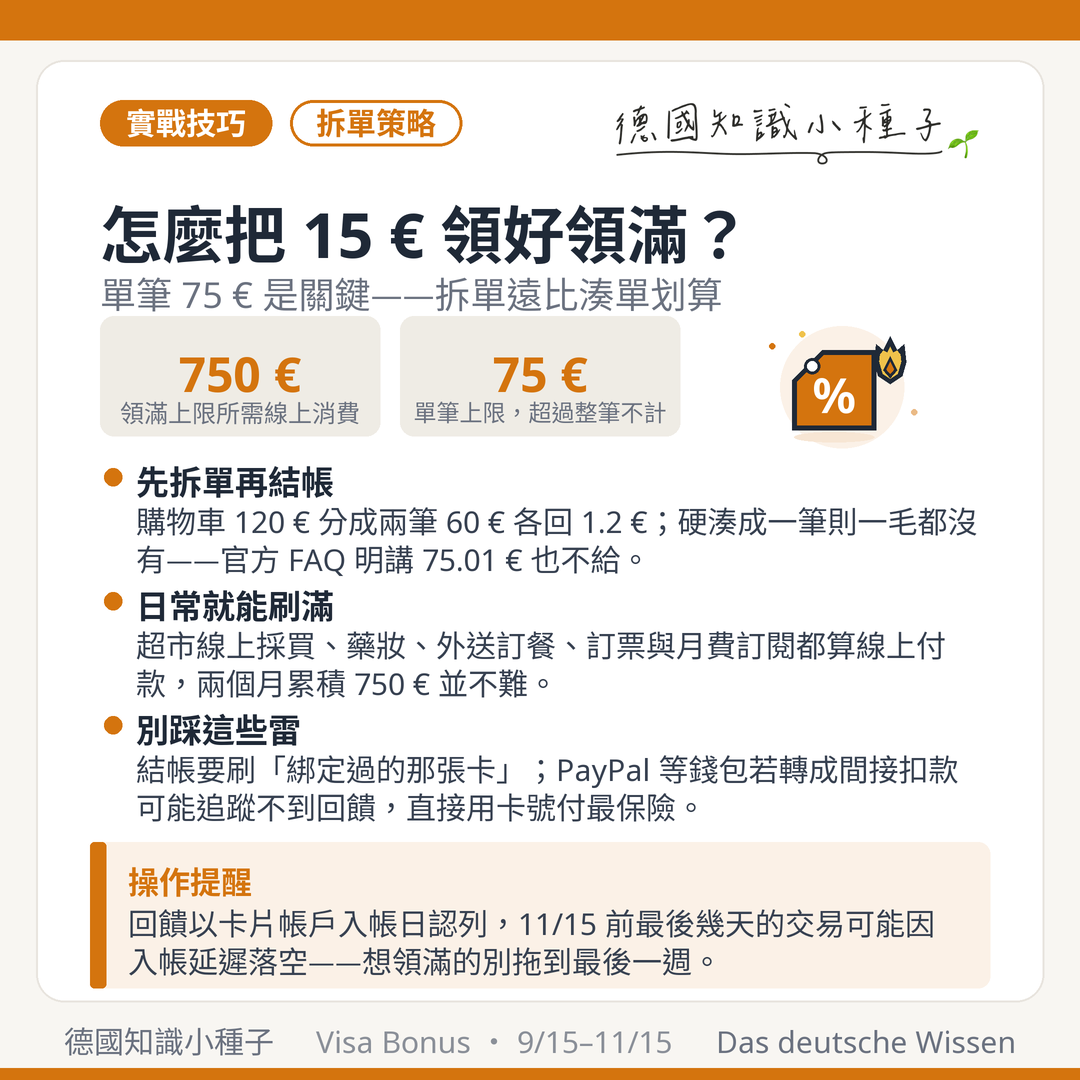
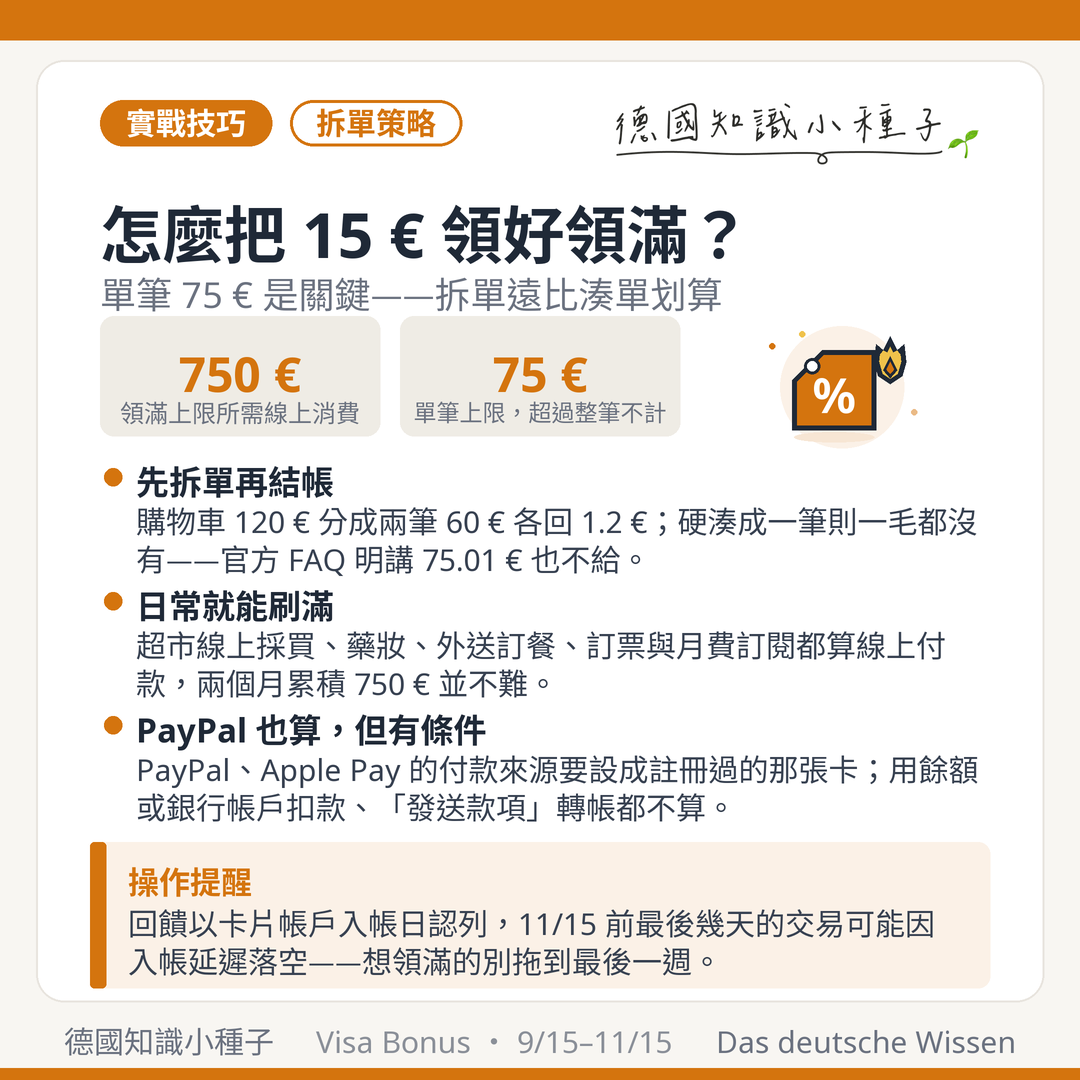
補上 PayPal／行動支付的認列規則（查證官方 FAQ 後修正）
原本寫「錢包間接扣款可能追蹤不到、保險起見直接輸卡號」，查證後發現過度保守且
與官方說法不符。Visa 德國上一檔同類線上回饋活動的官方 FAQ 明確寫：
Visa 卡只要是支付工具裡設定的付款來源，透過 PayPal、Apple Pay、Google Pay、
Klarna 結帳同樣算合格交易；但用 PayPal「發送款項（Geld senden）」付錢不算，
轉給個人或轉給商家買東西都一樣。

- 圖卡3：第三條 bullet 改為「PayPal 也算，但有條件」（並縮短文字，
  修正原本溢出撞到底部觀察框的問題）
- data.js：howto-max 章節改寫該條，附德文原文、實務兩點提醒，
  並註明這條 FAQ 出自 2025 秋季檔、本檔條款未重述的查證限制
- 社群稿：FB 增列三條、IG 增列一段，來源清單補上 FAQ 連結
  （FB 1996 字元／IG 952 字元）

Claude-Session: https://claude.ai/code/session_01VLQA5RrcurHHfHrfLc5Pcq

Changed region(s): [[0.1222, 0.6417, 0.9167, 0.7639]]

diff --git a/posts/visa-bonus-cashback-2026.html b/posts/visa-bonus-cashback-2026.html
@@ -139,7 +139,7 @@
       <span class="post-header__sep">·</span>
       <span>2026年9月16日 更新</span>
       <span class="post-header__sep">·</span>
-      <span>14 分鐘閱讀</span>
+      <span>17 分鐘閱讀</span>
     </div>
     <hr class="post-header__divider" />
   </header>
@@ -184,10 +184,12 @@
   <li><strong>先拆單再結帳</strong>：購物車 120 € 分成兩筆 60 €，各回 1.2 €、合計 2.4 €；硬湊成一筆則一毛都沒有。官方 FAQ 白紙黑字舉例，75.01 € 的交易一毛都拿不到。</li>
   <li><strong>日常線上消費就能刷滿</strong>：超市線上採買、藥妝、外送訂餐、訂票與月費訂閱都算線上付款。兩個月累積 750 €（平均每月 375 €）對多數家庭並不難。</li>
   <li><strong>刷「綁定過的那張卡」</strong>：一個帳號最多綁 5 張，結帳時務必選到已註冊的那張，否則不追蹤。</li>
-  <li><strong>錢包與行動支付保守處理</strong>：條款只寫「線上付款」，沒有針對 PayPal、Apple Pay／Google Pay 的代碼化卡號（Token）另做規範。要確保追蹤正確，最穩的做法是<strong>結帳時直接輸入卡號</strong>，而不是透過第三方錢包間接扣款。</li>
+  <li><strong>PayPal 與行動支付算不算？分兩種情況</strong>：Visa 在<a href="https://www.visa.de/promotions/clp-autumn-25/faq.html" target="_blank" rel="noopener noreferrer">上一檔同類線上回饋活動的官方 FAQ</a> 裡寫得很清楚——「<em>Wenn Ihre Visa Karte in einer Bezahl-App oder bei einem Onlinebezahlsystem hinterlegt ist, gelten auch diese als qualifizierte Transaktionen</em>」：<strong>只要 Visa 卡是該支付工具裡設定的付款來源，透過 PayPal、Apple Pay、Google Pay、Klarna 結帳同樣算</strong>。但同一則 FAQ 也明講，用 PayPal 的「<strong>發送款項（Geld senden）</strong>」功能付錢<strong>不算</strong>，「<em>weder an eine natürliche Person noch an einen Händler als Zahlung für ein Produkt oder eine Dienstleistung</em>」——轉帳給個人或給商家買東西都一樣不給。
+  <br>實務上要注意兩件事：<strong>①</strong> 先到 PayPal 設定裡把偏好付款來源改成你註冊過的那張 Visa 卡，否則 PayPal 會優先扣餘額或銀行帳戶（Lastschrift），那筆根本沒有 Visa 交易、自然沒有回饋；<strong>②</strong> 買東西就用商家結帳頁的正常 PayPal 付款流程，不要用「發送款項」轉給賣家。
+  <br><em>查證說明：這條 FAQ 出自 Visa 德國 2025 年秋季線上回饋檔（9/16–10/14，3%／上限 50 €）的活動頁；本次秋季檔的條款與 visa.de/bonus 的 FAQ 都沒有重述這一條，後者只寫「哪些付款算，依各活動條款而定」。同一組織、同類型活動的官方解釋參考價值高，但不是本檔的白紙黑字。</em></li>
   <li><strong>先搶先贏</strong>：65 萬歐元總預算全體共用，預算用完活動提前結束。</li>
 </ul>
-<p class="post-sources">📚 來源：<a href="https://www.visa.de/bonus/terms-and-conditions/ecommerce/september.html" target="_blank" rel="noopener noreferrer">秋季檔官方活動條款</a></p>
+<p class="post-sources">📚 來源：<a href="https://www.visa.de/bonus/terms-and-conditions/ecommerce/september.html" target="_blank" rel="noopener noreferrer">秋季檔官方活動條款</a> · <a href="https://www.visa.de/promotions/clp-autumn-25/faq.html" target="_blank" rel="noopener noreferrer">Visa｜2025 秋季線上回饋檔官方 FAQ（PayPal／Apple Pay 認列說明）</a></p>
 
 <img src="/assets/images/2026/visa/VisaBonusHerbst2026_圖卡2_誰能參加.png" alt="Visa Bonus 參加資格：年滿 18、住在德國、德國發行 Visa 卡；排除 Prepaid、V PAY、Klarna">
 <h2 id="eligibility">誰能參加？哪些卡直接出局？</h2>
@@ -257,6 +259,7 @@
   <li><a href="https://www.visa.de/bonus.html" target="_blank" rel="noopener noreferrer">Visa Bonus 官方活動頁（visa.de/bonus）</a></li>
   <li><a href="https://www.visa.de/bonus/terms-and-conditions/ecommerce/september.html" target="_blank" rel="noopener noreferrer">Visa｜秋季線上購物檔活動條款（Teilnahmebedingungen E-Commerce September）</a></li>
   <li><a href="https://www.visa.de/bonus/terms-and-conditions/crossborder/july.html" target="_blank" rel="noopener noreferrer">Visa｜夏季檔活動條款（Teilnahmebedingungen July）</a></li>
+  <li><a href="https://www.visa.de/promotions/clp-autumn-25/faq.html" target="_blank" rel="noopener noreferrer">Visa｜2025 秋季線上回饋檔官方 FAQ（PayPal、Apple Pay、Klarna 認列說明）</a></li>
   <li><a href="https://www.mydealz.de/deals/2-cashback-fur-visa-zahlungen-im-ausland-online-offline-2807402" target="_blank" rel="noopener noreferrer">mydealz｜2% Cashback für Visa-Zahlungen im Ausland（夏季檔討論串）</a></li>
   <li><a href="https://www.bbva.de/privat/produkte/karten/debitkarte.html" target="_blank" rel="noopener noreferrer">BBVA 德國官網｜Debitkarte（Mastercard）</a></li>
 </ul></article>

diff --git a/js/data.js b/js/data.js
@@ -529,10 +529,12 @@ const POSTS = [
   <li><strong>先拆單再結帳</strong>：購物車 120 € 分成兩筆 60 €，各回 1.2 €、合計 2.4 €；硬湊成一筆則一毛都沒有。官方 FAQ 白紙黑字舉例，75.01 € 的交易一毛都拿不到。</li>
   <li><strong>日常線上消費就能刷滿</strong>：超市線上採買、藥妝、外送訂餐、訂票與月費訂閱都算線上付款。兩個月累積 750 €（平均每月 375 €）對多數家庭並不難。</li>
   <li><strong>刷「綁定過的那張卡」</strong>：一個帳號最多綁 5 張，結帳時務必選到已註冊的那張，否則不追蹤。</li>
-  <li><strong>錢包與行動支付保守處理</strong>：條款只寫「線上付款」，沒有針對 PayPal、Apple Pay／Google Pay 的代碼化卡號（Token）另做規範。要確保追蹤正確，最穩的做法是<strong>結帳時直接輸入卡號</strong>，而不是透過第三方錢包間接扣款。</li>
+  <li><strong>PayPal 與行動支付算不算？分兩種情況</strong>：Visa 在<a href="https://www.visa.de/promotions/clp-autumn-25/faq.html" target="_blank" rel="noopener noreferrer">上一檔同類線上回饋活動的官方 FAQ</a> 裡寫得很清楚——「<em>Wenn Ihre Visa Karte in einer Bezahl-App oder bei einem Onlinebezahlsystem hinterlegt ist, gelten auch diese als qualifizierte Transaktionen</em>」：<strong>只要 Visa 卡是該支付工具裡設定的付款來源，透過 PayPal、Apple Pay、Google Pay、Klarna 結帳同樣算</strong>。但同一則 FAQ 也明講，用 PayPal 的「<strong>發送款項（Geld senden）</strong>」功能付錢<strong>不算</strong>，「<em>weder an eine natürliche Person noch an einen Händler als Zahlung für ein Produkt oder eine Dienstleistung</em>」——轉帳給個人或給商家買東西都一樣不給。
+  <br>實務上要注意兩件事：<strong>①</strong> 先到 PayPal 設定裡把偏好付款來源改成你註冊過的那張 Visa 卡，否則 PayPal 會優先扣餘額或銀行帳戶（Lastschrift），那筆根本沒有 Visa 交易、自然沒有回饋；<strong>②</strong> 買東西就用商家結帳頁的正常 PayPal 付款流程，不要用「發送款項」轉給賣家。
+  <br><em>查證說明：這條 FAQ 出自 Visa 德國 2025 年秋季線上回饋檔（9/16–10/14，3%／上限 50 €）的活動頁；本次秋季檔的條款與 visa.de/bonus 的 FAQ 都沒有重述這一條，後者只寫「哪些付款算，依各活動條款而定」。同一組織、同類型活動的官方解釋參考價值高，但不是本檔的白紙黑字。</em></li>
   <li><strong>先搶先贏</strong>：65 萬歐元總預算全體共用，預算用完活動提前結束。</li>
 </ul>
-<p class="post-sources">📚 來源：<a href="https://www.visa.de/bonus/terms-and-conditions/ecommerce/september.html" target="_blank" rel="noopener noreferrer">秋季檔官方活動條款</a></p>
+<p class="post-sources">📚 來源：<a href="https://www.visa.de/bonus/terms-and-conditions/ecommerce/september.html" target="_blank" rel="noopener noreferrer">秋季檔官方活動條款</a> · <a href="https://www.visa.de/promotions/clp-autumn-25/faq.html" target="_blank" rel="noopener noreferrer">Visa｜2025 秋季線上回饋檔官方 FAQ（PayPal／Apple Pay 認列說明）</a></p>
 
 <img src="assets/images/2026/visa/VisaBonusHerbst2026_圖卡2_誰能參加.png" alt="Visa Bonus 參加資格：年滿 18、住在德國、德國發行 Visa 卡；排除 Prepaid、V PAY、Klarna">
 <h2 id="eligibility">誰能參加？哪些卡直接出局？</h2>
@@ -602,6 +604,7 @@ const POSTS = [
   <li><a href="https://www.visa.de/bonus.html" target="_blank" rel="noopener noreferrer">Visa Bonus 官方活動頁（visa.de/bonus）</a></li>
   <li><a href="https://www.visa.de/bonus/terms-and-conditions/ecommerce/september.html" target="_blank" rel="noopener noreferrer">Visa｜秋季線上購物檔活動條款（Teilnahmebedingungen E-Commerce September）</a></li>
   <li><a href="https://www.visa.de/bonus/terms-and-conditions/crossborder/july.html" target="_blank" rel="noopener noreferrer">Visa｜夏季檔活動條款（Teilnahmebedingungen July）</a></li>
+  <li><a href="https://www.visa.de/promotions/clp-autumn-25/faq.html" target="_blank" rel="noopener noreferrer">Visa｜2025 秋季線上回饋檔官方 FAQ（PayPal、Apple Pay、Klarna 認列說明）</a></li>
   <li><a href="https://www.mydealz.de/deals/2-cashback-fur-visa-zahlungen-im-ausland-online-offline-2807402" target="_blank" rel="noopener noreferrer">mydealz｜2% Cashback für Visa-Zahlungen im Ausland（夏季檔討論串）</a></li>
   <li><a href="https://www.bbva.de/privat/produkte/karten/debitkarte.html" target="_blank" rel="noopener noreferrer">BBVA 德國官網｜Debitkarte（Mastercard）</a></li>
 </ul>

diff --git a/scripts/cardgen/make_visa_herbst_cards.py b/scripts/cardgen/make_visa_herbst_cards.py
@@ -54,7 +54,7 @@ CARDS = [
   bullets=[
    ('先拆單再結帳', '購物車 120 € 分成兩筆 60 € 各回 1.2 €；硬湊成一筆則一毛都沒有——官方 FAQ 明講 75.01 € 也不給。'),
    ('日常就能刷滿', '超市線上採買、藥妝、外送訂餐、訂票與月費訂閱都算線上付款，兩個月累積 750 € 並不難。'),
-   ('別踩這些雷', '結帳要刷「綁定過的那張卡」；PayPal 等錢包若轉成間接扣款可能追蹤不到回饋，直接用卡號付最保險。'),
+   ('PayPal 也算，但有條件', 'PayPal、Apple Pay 的付款來源要設成註冊過的那張卡；用餘額或銀行帳戶扣款、「發送款項」轉帳都不算。'),
   ],
   takeaway=('操作提醒', '回饋以卡片帳戶入帳日認列，11/15 前最後幾天的交易可能因入帳延遲落空——想領滿的別拖到最後一週。'),
   file='VisaBonusHerbst2026_圖卡3_領好領滿.png'),
